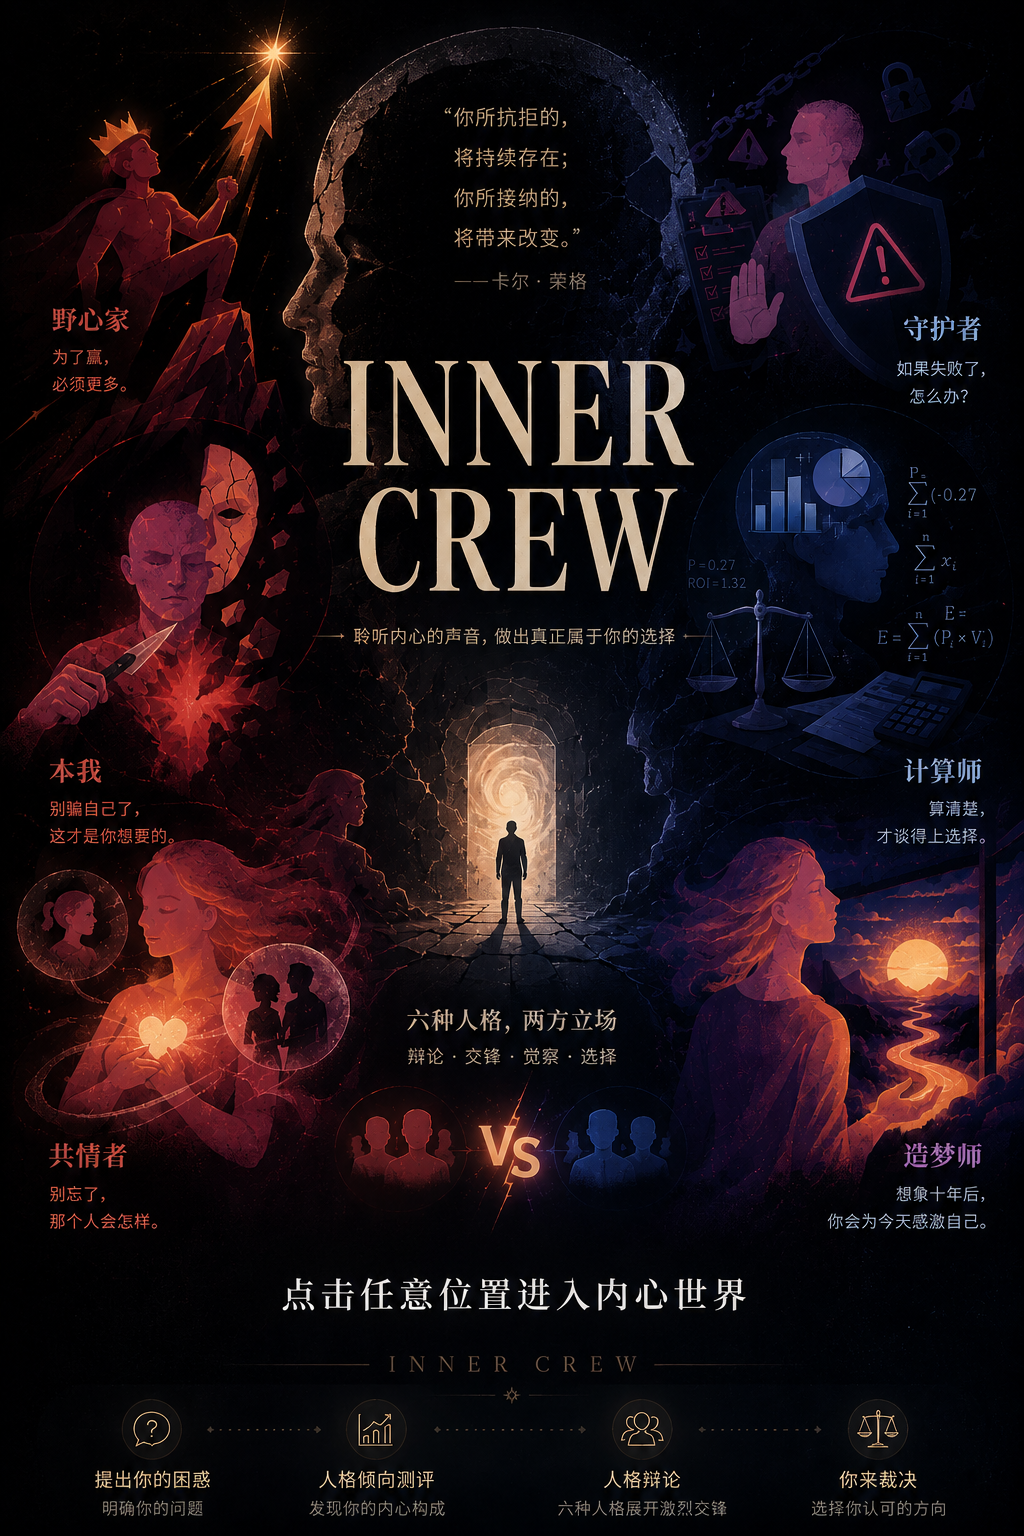
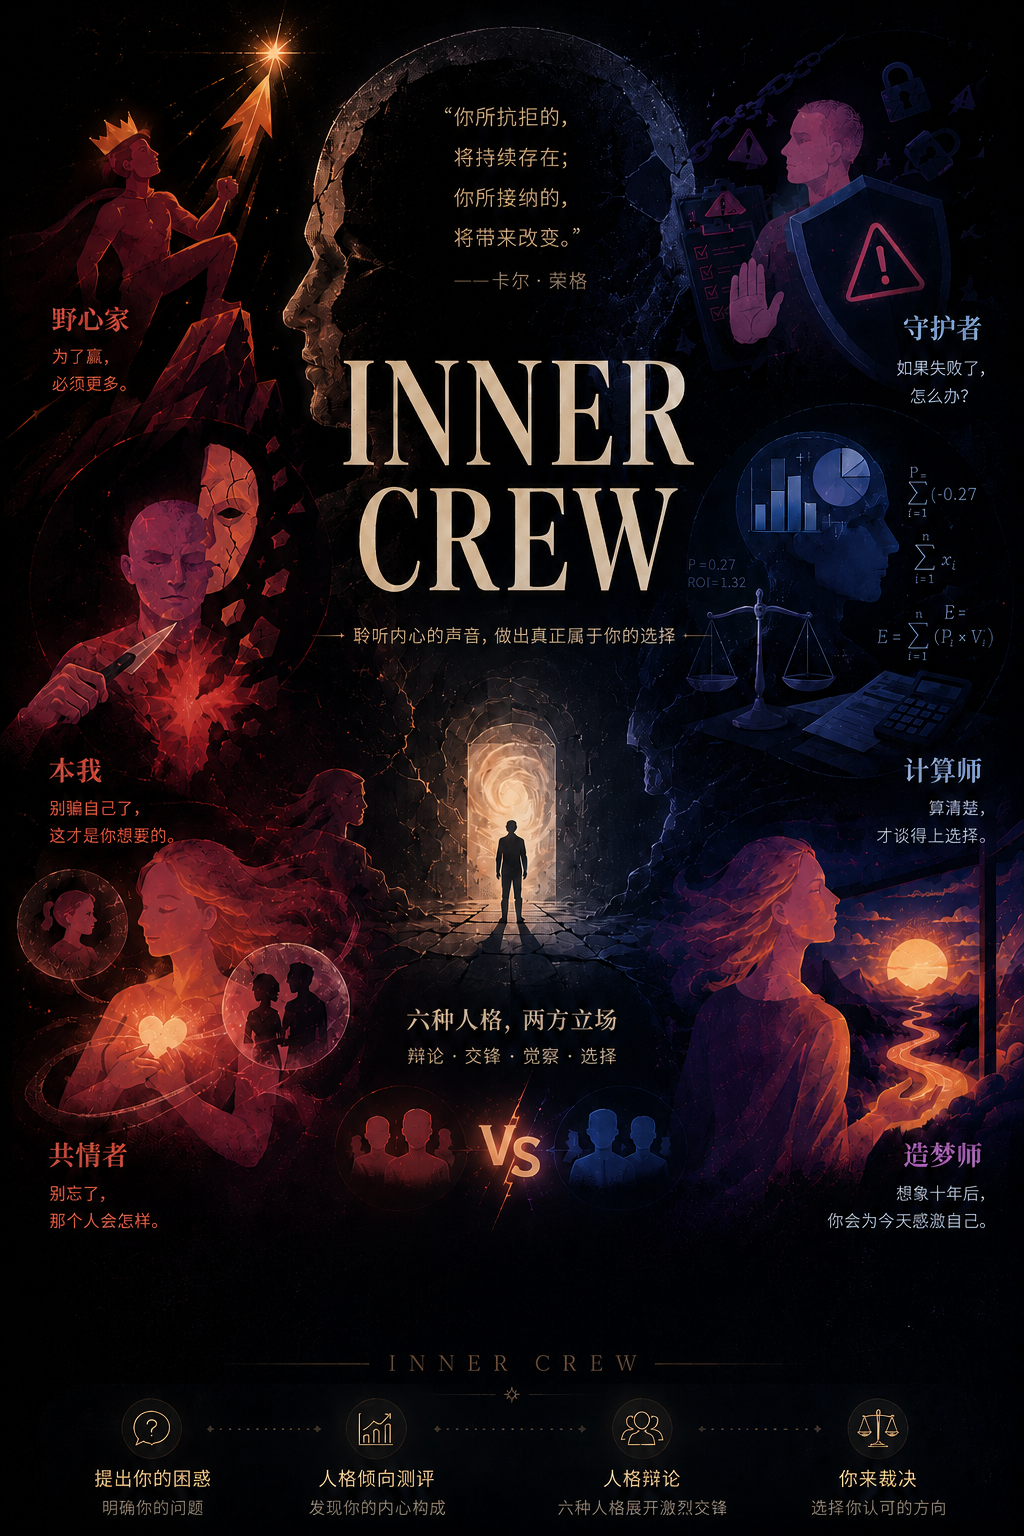
Update cover image

diff --git a/static/index.html b/static/index.html
@@ -660,7 +660,7 @@
   <!-- 0 封面 -->
   <section class="screen active" id="s-cover">
     <div class="cover-frame">
-      <img src="/cover/90912f877bafa49984ab8e2d4c864a09.png" alt="Inner Crew · 六种人格，两大立场" />
+      <img src="/cover/90912f877bafa49984ab8e2d4c864a09.png?v=20260706" alt="Inner Crew · 六种人格，两大立场" />
     </div>
     <div class="cover-cta">
       <button class="enter" id="cover-enter">开始探索你的内心世界</button>